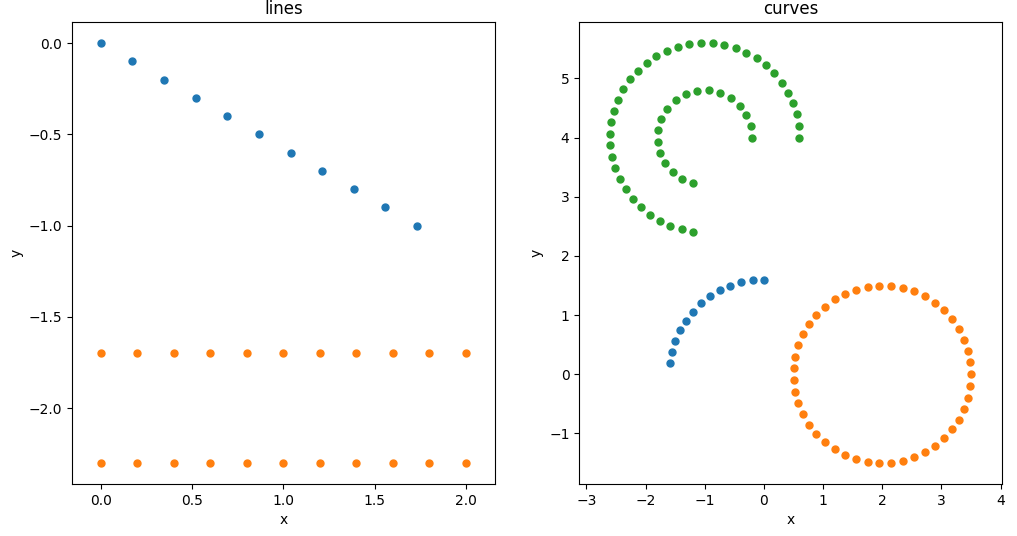
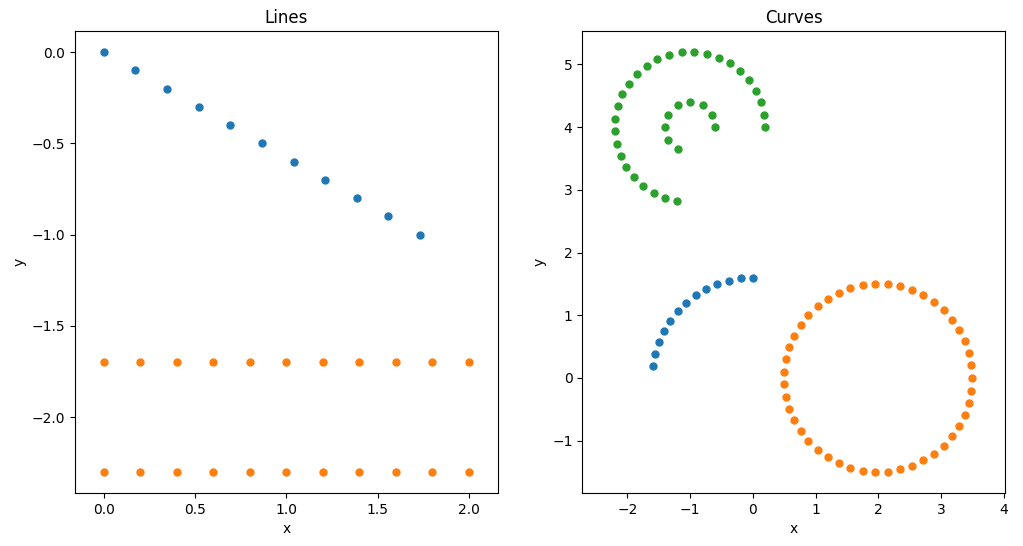
finish dam doc

diff --git a/docs/source/gallery.rst b/docs/source/gallery.rst
@@ -22,9 +22,9 @@ Source code
    import geoparticle as gp
    import matplotlib.pyplot as plt
    from warnings import filterwarnings
-
+   
    filterwarnings('ignore', message='.*quantized.*')
-
+   
    dl = 0.2
    # 1D gallery ====================
    fig0 = plt.figure(figsize=(12, 6))
@@ -34,44 +34,45 @@ Source code
    line.plot(ax01)
    symm_lines = gp.SymmLines(2, 'z', 0.3, dl, 'symm_lines').shift(y=-2)
    symm_lines.plot(ax01)
-   ax01.set_title('lines')
+   ax01.set_title('Lines')
    ax01.axis('equal')
    # curves
    ax02 = fig0.add_subplot(122)
-   arc = gp.Arc(1.6, '[90, 180)', 0, 'XOY', dl, 'arc')
+   arc = gp.Arc(1.6, '[90, 180)', 'XOY', dl, 'arc')
    arc.plot(ax02)
-
-   circle = gp.Circle(1.5, 0, 'XOY', dl, 'circle').shift(x=2)
+   
+   circle = gp.Circle(1.5, 'XOY', dl, 'circle').shift(x=2)
    circle.plot(ax02)
-
-   torus2D = gp.Torus2D(0.4, 1.2, dl, plane='XOY', phi_range='[0,270)').shift(x=-1, y=4)
-   torus2D.plot(ax02)
-
-   ax02.set_title('curves')
+   
+   conc_arc = gp.ConcentricArc(0.4, 1.2, dl, plane='XOY', phi_range='[0,270)').shift(x=-1, y=4)
+   conc_arc.plot(ax02)
+   
+   ax02.set_title('Curves')
    ax02.axis('equal')
+   
    # 2D gallery ====================
    fig1 = plt.figure(figsize=(12, 6))
    ax11 = fig1.add_subplot(121)
    # rectangles
-   rectangle = gp.Rectangle(4, 1.2, 0, 'z', dl).shift(y=3)
+   rectangle = gp.Rectangle(4, 1.2, 'z', dl).shift(y=3)
    rectangle.plot(ax11)
-   filled_rectangle = gp.FilledRectangle(1.7, 2, 0, 'z', dl)
+   filled_rectangle = gp.FilledRectangle(1.7, 2, 'z', dl)
    filled_rectangle.plot(ax11)
-   thick_rectangle = gp.ThickRectangle(1.7, 2, 2, 0, 'z', dl).shift(x=2.5)
+   thick_rectangle = gp.ThickRectangle(1.7, 2, 2, 'z', dl).shift(x=2.5)
    thick_rectangle.plot(ax11)
-   ax11.set_title('rectangles')
+   ax11.set_title('Rectangles')
    ax11.axis('equal')
    # circles
    ax12 = fig1.add_subplot(122)
-   circle = gp.Circle(1.5, 0, 'XOY', dl, 'circle').shift(x=3, y=-1)
+   circle = gp.Circle(1.5, 'XOY', dl, 'circle').shift(x=3, y=-1)
    circle.plot(ax12)
    thick_ring = gp.ThickRing(1.6, 1, dl, incl_inner=True, incl_outer=True, axis='z').shift(y=1)
    thick_ring.plot(ax12)
    filled_circle = gp.FilledCircle(1, dl, axis='z').shift(y=-2)
    filled_circle.plot(ax12)
-   ax12.set_title('circles')
+   ax12.set_title('Circles')
    ax12.axis('equal')
-
+   
    # 3D gallery ====================
    fig2 = plt.figure(figsize=(10, 10))
    dl = 0.4
@@ -82,7 +83,7 @@ Source code
    clipped_wall = gp.Clip(thick_block_wall, keep='negative', plane_point=(6.5, 2, 2.5), plane_normal=(0, 0, 1))
    ax21 = block.plot(ax21)
    ax21 = clipped_wall.plot(ax21, c=clipped_wall.zs)
-   ax21.set_title('Filled block and wall')
+   ax21.set_title('Hollow and filled blocks')
    ax21.view_init(elev=33, azim=-76, roll=3)
    # tube
    ax22 = fig2.add_subplot(222, projection='3d')
@@ -92,7 +93,7 @@ Source code
    tube.plot(ax22)
    thick_tube.plot(ax22, c=thick_tube.radius)
    water_column.plot(ax22, c=water_column.radius)
-   ax22.set_title('cylinder side and filled cylinder')
+   ax22.set_title('Hollow and filled cylinders')
    # torus
    ax23 = fig2.add_subplot(223, projection='3d')
    torus_surface = gp.TorusSurface(2, 5, dl, plane='XOY', phi_range='[0,150)')
@@ -101,7 +102,7 @@ Source code
    torus_surface.plot(ax23, alpha=0.1)
    thick_torus.plot(ax23, c=thick_torus.radius)
    filled_torus.plot(ax23, c=filled_torus.radius)
-   ax23.set_title('torus')
+   ax23.set_title('Hollow and filled tori')
    # sphere
    ax24 = fig2.add_subplot(224, projection='3d')
    sphere_surface = gp.Clip(gp.SphereSurface(4, dl, 'sphere_surface'), keep='negative',
@@ -110,10 +111,12 @@ Source code
                           plane_point=(0, 0, 0), plane_normal=(0, 0, 1))
    sphere = gp.Clip(gp.FilledSphere(4, dl, 'sphere'), keep='negative',
                     plane_point=(0, 0, 0), plane_normal=(0, 0, 1))
-
+   
+   
    def calc_rs(coords):
        return np.sqrt((coords ** 2).sum(axis=1))
-
+   
+   
    sphere_surface.plot(ax24)
    sphere_shell.shift(x=16).plot(ax24, c=calc_rs(sphere_shell.matrix_coords))
    sphere.shift(x=8, y=-8).plot(ax24, c=calc_rs(sphere.matrix_coords))
@@ -124,7 +127,7 @@ Source code
        ax.set_ylabel('y')
        ax.set_zlabel('z')
        ax.axis('equal')
-
+   
    # Transformation
    fig3 = plt.figure(figsize=(10, 10))
    # rotate
@@ -135,7 +138,7 @@ Source code
        tube_rot.plot(ax31)
    ax31.plot([-5, 5], [2, 2], [-2, -2], '--')
    ax31.view_init(elev=12, azim=-16, roll=3)
-   ax31.set_title('rotate')
+   ax31.set_title('Rotate')
    # mirror
    ax32 = fig3.add_subplot(222, projection='3d')
    x_plane = np.linspace(10, 20)
@@ -148,7 +151,7 @@ Source code
    torus_mirror = torus_surface.mirror('XOY', 0)
    torus_mirror.plot(ax32)
    ax32.view_init(elev=11, azim=102, roll=-7)
-   ax32.set_title('mirror')
+   ax32.set_title('Mirror')
    # intersect
    ax33 = fig3.add_subplot(223, projection='3d')
    torus_surface = gp.TorusSurface(2, 5, dl, gp.n_per_ring(2, dl), regular_id=False,
@@ -164,7 +167,7 @@ Source code
    subtract.plot(ax33)
    union.plot(ax33)
    ax33.view_init(elev=15, azim=-106, roll=-3)
-   ax33.set_title('intersect, subtract, union')
+   ax33.set_title('Intersect, subtract, union')
    # clip
    ax34 = fig3.add_subplot(224, projection='3d')
    thick_block_wall.plot(ax34)
@@ -176,11 +179,12 @@ Source code
    ax34.plot_surface(X_plane, Y_plane, Z_plane, rstride=3, cstride=3, alpha=0.5)
    clip.plot(ax34, alpha=0.2)
    ax34.view_init(elev=16, azim=-85, roll=-2)
-   ax34.set_title('clip')
-
+   ax34.set_title('Clip')
+   
    for ax in (ax31, ax32, ax33, ax34):
        ax.set_xlabel('x')
        ax.set_ylabel('y')
        ax.set_zlabel('z')
        ax.axis('equal')
    plt.show()
+   
